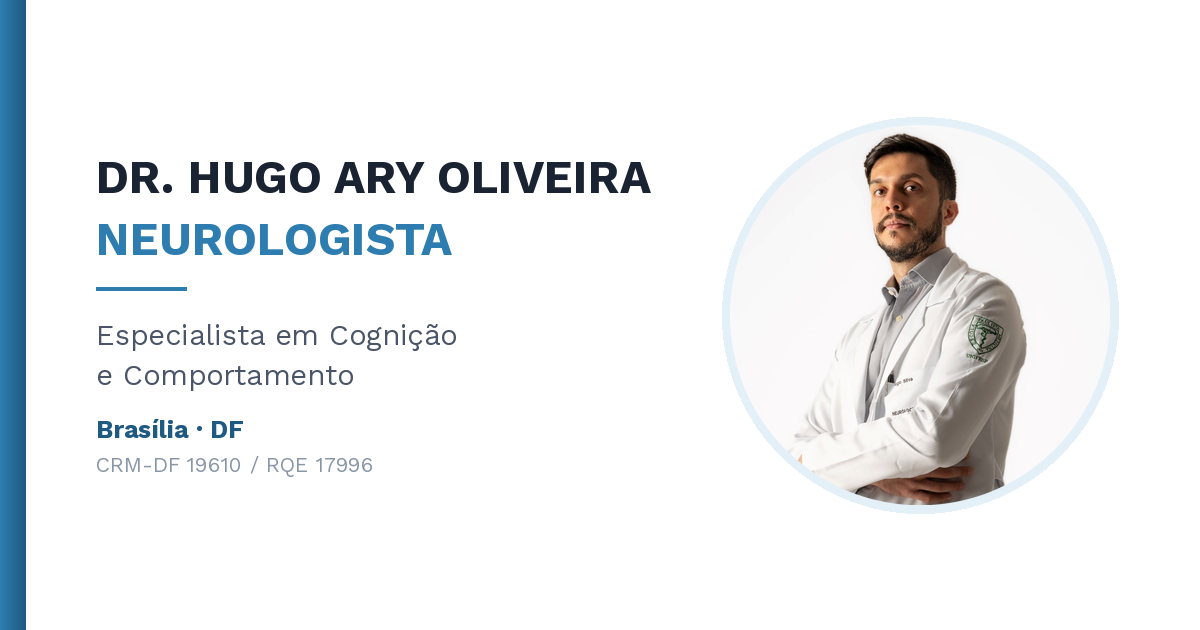
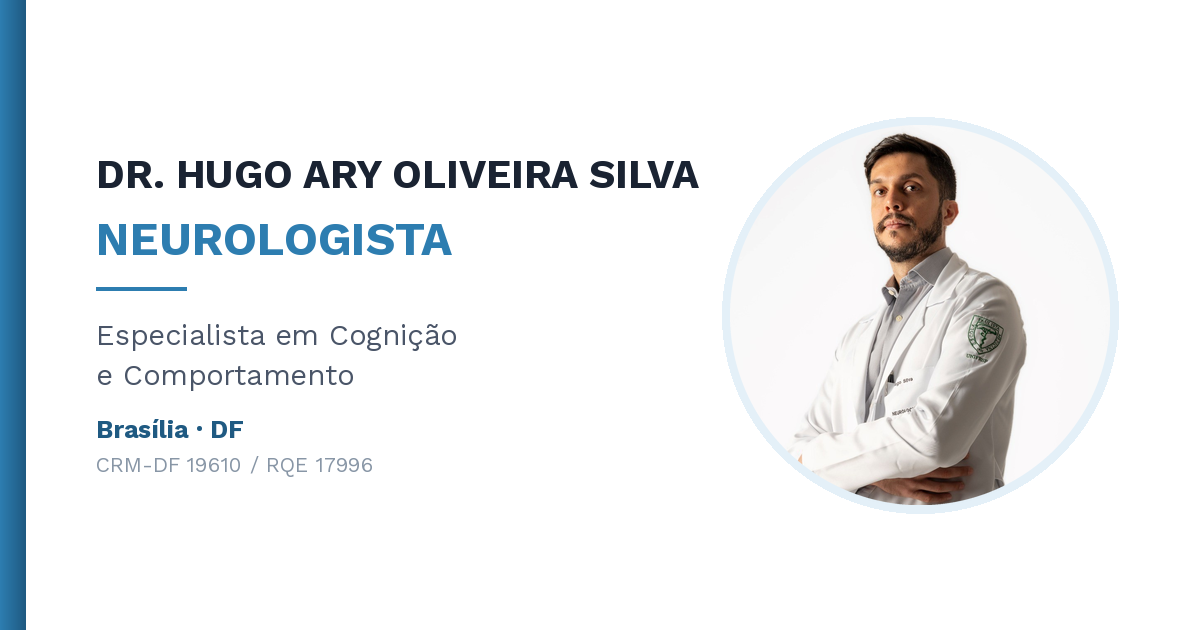
Padroniza o nome como "Dr. Hugo Ary Oliveira Silva" (#6)
O site usava cinco grafias diferentes do mesmo nome. Isso fragmenta a
identidade: buscadores e modelos de linguagem precisam ligar todas as
menções a uma única pessoa, e grafias divergentes entre site, diretórios
médicos e páginas de hospital enfraquecem todas as ocorrências.

Grafias encontradas e unificadas (34 ocorrências em 5 arquivos):
- "Dr. Hugo Ary Oliveira"      — maior parte do site
- "Dr.Hugo Ary Oliveira"       — rodapé, sem espaço
- "DR. HUGO ARY OLIVEIRA"      — h1 da home
- "Dr Hugo Ary Oliveira Silva" — cabeçalho da avaliação
- "Dr Hugo Ary O R Silva"      — campo examinador do TAP TEST

Reforço de entidade:
- O nó Physician ganha givenName, familyName, honorificPrefix e
  alternateName com as grafias antigas. Como o site já foi indexado com
  "Dr. Hugo Ary Oliveira" e outras fontes podem usar essa forma, o
  alternateName declara explicitamente que são a mesma pessoa, em vez de
  deixar a mudança criar duas entidades.
- og-image.png regerada com o nome completo.

Title do TAP TEST:
Com o nome completo o title ia a 71 caracteres, além do limite que o
Google exibe. Truncar o nome contrariaria a própria padronização, então o
nome sai desse title — a página é instrumento clínico, não capta paciente,
e a autoria continua no JSON-LD, no og:site_name e no conteúdo visível.
Fica "TAP TEST — Hidrocefalia de Pressão Normal" (41 car.).

Validado no Chromium/Playwright: nenhum erro de JavaScript, JSON-LD
[…]

Changed region(s): [[0.0617, 0.2413, 0.5858, 0.3317]]

diff --git a/index.html b/index.html
@@ -7,7 +7,7 @@
       name="description"
       content="Neurologista em Brasília especialista em Cognição e Comportamento. Atendimento em problemas de memória, TDAH, Alzheimer e autismo adulto. CRM-DF 19610."
     />
-    <meta name="author" content="Dr. Hugo Ary Oliveira" />
+    <meta name="author" content="Dr. Hugo Ary Oliveira Silva" />
     <meta name="robots" content="index, follow, max-image-preview:large, max-snippet:-1" />
     <meta name="theme-color" content="#2d7db0" />
     <link rel="canonical" href="https://drhugoary.com.br/" />
@@ -15,10 +15,10 @@
     <!-- Open Graph: define o cartão exibido ao compartilhar o link
          (WhatsApp, Instagram, LinkedIn). -->
     <meta property="og:type" content="website" />
-    <meta property="og:site_name" content="Dr. Hugo Ary Oliveira — Neurologista" />
+    <meta property="og:site_name" content="Dr. Hugo Ary Oliveira Silva — Neurologista" />
     <meta property="og:locale" content="pt_BR" />
     <meta property="og:url" content="https://drhugoary.com.br/" />
-    <meta property="og:title" content="Neurologista em Brasília | Dr. Hugo Ary Oliveira" />
+    <meta property="og:title" content="Neurologista em Brasília | Dr. Hugo Ary Oliveira Silva" />
     <meta
       property="og:description"
       content="Especialista em Cognição e Comportamento. Problemas de memória, TDAH, Alzheimer e autismo adulto. CRM-DF 19610 / RQE 17996."
@@ -26,9 +26,9 @@
     <meta property="og:image" content="https://drhugoary.com.br/assets/img/og-image.png" />
     <meta property="og:image:width" content="1200" />
     <meta property="og:image:height" content="630" />
-    <meta property="og:image:alt" content="Dr. Hugo Ary Oliveira, neurologista em Brasília" />
+    <meta property="og:image:alt" content="Dr. Hugo Ary Oliveira Silva, neurologista em Brasília" />
     <meta name="twitter:card" content="summary_large_image" />
-    <meta name="twitter:title" content="Neurologista em Brasília | Dr. Hugo Ary Oliveira" />
+    <meta name="twitter:title" content="Neurologista em Brasília | Dr. Hugo Ary Oliveira Silva" />
     <meta
       name="twitter:description"
       content="Especialista em Cognição e Comportamento. Problemas de memória, TDAH, Alzheimer e autismo adulto."
@@ -45,7 +45,7 @@
       crossorigin="anonymous"
       referrerpolicy="no-referrer"
     />
-    <title>Neurologista em Brasília | Dr. Hugo Ary Oliveira</title>
+    <title>Neurologista em Brasília | Dr. Hugo Ary Oliveira Silva</title>
   </head>
   <body>
     <header class="l-header">
@@ -54,7 +54,7 @@
           <a href="#home" class="nav__logo">
             <img
               src="./assets/img/logo.svg"
-              alt="Dr. Hugo Ary Oliveira - Neurologista em Brasília"
+              alt="Dr. Hugo Ary Oliveira Silva - Neurologista em Brasília"
               class="logo__img"
             />
           </a>
@@ -134,7 +134,7 @@
       <section class="home" id="home">
         <div class="home__data">
           <h1 class="home__title">
-            DR. HUGO ARY OLIVEIRA <br />
+            DR. HUGO ARY OLIVEIRA SILVA <br />
             NEUROLOGISTA
           </h1>
           <p class="home__subtitle">CRM-DF 19610 / RQE 17996</p>
@@ -160,7 +160,7 @@
       <section class="about" id="sobre">
         <img
           src="./assets/img/hugo.jpg"
-          alt="Dr. Hugo Ary Oliveira, neurologista em Brasília"
+          alt="Dr. Hugo Ary Oliveira Silva, neurologista em Brasília"
           class="about__img"
         />
         <div class="about__data">
@@ -347,7 +347,7 @@
       <div class="footer__data">
         <img
           src="./assets/img/logo.svg"
-          alt="Dr. Hugo Ary Oliveira - Neurologista em Brasília"
+          alt="Dr. Hugo Ary Oliveira Silva - Neurologista em Brasília"
           class="footer__logo"
         />
         <div class="footer__info">
@@ -363,7 +363,7 @@
         </div>
       </div>
       <div class="footer__rights">
-        <p>Dr.Hugo Ary Oliveira © 2026 - Todos os direitos reservados</p>
+        <p>Dr. Hugo Ary Oliveira Silva © 2026 - Todos os direitos reservados</p>
         <p>
           Desenvolvido por
           <a
@@ -385,14 +385,22 @@
             "@type": "WebSite",
             "@id": "https://drhugoary.com.br/#website",
             "url": "https://drhugoary.com.br/",
-            "name": "Dr. Hugo Ary Oliveira — Neurologista",
+            "name": "Dr. Hugo Ary Oliveira Silva — Neurologista",
             "inLanguage": "pt-BR",
             "publisher": { "@id": "https://drhugoary.com.br/#medico" }
           },
           {
             "@type": "Physician",
             "@id": "https://drhugoary.com.br/#medico",
-            "name": "Dr. Hugo Ary Oliveira",
+            "name": "Dr. Hugo Ary Oliveira Silva",
+            "givenName": "Hugo Ary",
+            "familyName": "Oliveira Silva",
+            "honorificPrefix": "Dr.",
+            "alternateName": [
+              "Dr. Hugo Ary Oliveira",
+              "Hugo Ary Oliveira Silva",
+              "Hugo Ary Oliveira"
+            ],
             "url": "https://drhugoary.com.br/",
             "image": "https://drhugoary.com.br/assets/img/hugo.jpg",
             "logo": "https://drhugoary.com.br/assets/img/logo.svg",

diff --git a/tap-test.html b/tap-test.html
@@ -3,19 +3,19 @@
   <head>
     <meta charset="UTF-8" />
     <meta name="viewport" content="width=device-width, initial-scale=1.0" />
-    <meta name="description" content="TAP TEST – Avaliação de resposta à punção lombar na suspeita de Hidrocefalia de Pressão Normal. Dr. Hugo Ary Oliveira, Neurologista. CRM-DF 19610." />
-    <meta name="author" content="Dr. Hugo Ary Oliveira" />
+    <meta name="description" content="TAP TEST – Avaliação de resposta à punção lombar na suspeita de Hidrocefalia de Pressão Normal. Dr. Hugo Ary Oliveira Silva, Neurologista. CRM-DF 19610." />
+    <meta name="author" content="Dr. Hugo Ary Oliveira Silva" />
     <link rel="canonical" href="https://drhugoary.com.br/tap-test.html" />
     <meta property="og:type" content="article" />
-    <meta property="og:site_name" content="Dr. Hugo Ary Oliveira — Neurologista" />
+    <meta property="og:site_name" content="Dr. Hugo Ary Oliveira Silva — Neurologista" />
     <meta property="og:locale" content="pt_BR" />
     <meta property="og:url" content="https://drhugoary.com.br/tap-test.html" />
-    <meta property="og:title" content="TAP TEST — Hidrocefalia de Pressão Normal | Dr. Hugo Ary Oliveira" />
-    <meta property="og:description" content="TAP TEST: avaliação da resposta à punção lombar na suspeita de Hidrocefalia de Pressão Normal. Dr. Hugo Ary Oliveira, neurologista em Brasília." />
+    <meta property="og:title" content="TAP TEST — Hidrocefalia de Pressão Normal" />
+    <meta property="og:description" content="TAP TEST: avaliação da resposta à punção lombar na suspeita de Hidrocefalia de Pressão Normal. Dr. Hugo Ary Oliveira Silva, neurologista em Brasília." />
     <meta property="og:image" content="https://drhugoary.com.br/assets/img/og-image.png" />
     <meta name="twitter:card" content="summary_large_image" />
     <link rel="icon" href="./assets/img/brain-vector.svg" />
-    <title>TAP TEST — Hidrocefalia de Pressão Normal | Dr. Hugo Ary Oliveira</title>
+    <title>TAP TEST — Hidrocefalia de Pressão Normal</title>
     <style>
       @import url('https://fonts.googleapis.com/css2?family=DM+Sans:ital,opsz,wght@0,9..40,300;0,9..40,400;0,9..40,500;0,9..40,600;0,9..40,700;1,9..40,400&family=JetBrains+Mono:wght@400;500&display=swap');
       :root{--bg:#f7f9fc;--surface:#fff;--surface2:#f0f4f8;--border:#e2e8f0;--text:#1a2332;--text2:#4a5568;--text3:#8896a6;--accent:#2d7db0;--accent-light:#e4f0f8;--accent-dark:#1f5a82;--green:#5ba88c;--green-light:#e6f5ef;--green-dark:#3d7a62;--red:#c75a5a;--red-light:#fde8e8;--orange:#d4915e;--orange-light:#fef3e8;--shadow-sm:0 1px 3px rgba(26,35,50,.06);--shadow-md:0 4px 12px rgba(26,35,50,.08);--radius:10px;--radius-sm:6px;--font:'DM Sans',-apple-system,sans-serif;--mono:'JetBrains Mono',monospace;}
@@ -138,7 +138,7 @@
       <div style="max-width:46rem;margin:0 auto;padding:2.5rem 1.25rem;font-family:system-ui,-apple-system,'Segoe UI',Roboto,sans-serif;line-height:1.65;color:#1a2332;">
         <p style="font-size:.82rem;letter-spacing:.06em;text-transform:uppercase;color:#2d7db0;font-weight:700;margin:0 0 .5rem;">Instrumento clínico</p>
         <h1 style="font-size:1.9rem;line-height:1.25;margin:0 0 1rem;">TAP TEST — Hidrocefalia de Pressão Normal</h1>
-        <p>Registro estruturado da resposta à <strong>punção lombar de alívio</strong> na investigação de <strong>Hidrocefalia de Pressão Normal (HPN)</strong>, usado em consulta pelo <strong>Dr. Hugo Ary Oliveira</strong>, neurologista em Brasília.</p>
+        <p>Registro estruturado da resposta à <strong>punção lombar de alívio</strong> na investigação de <strong>Hidrocefalia de Pressão Normal (HPN)</strong>, usado em consulta pelo <strong>Dr. Hugo Ary Oliveira Silva</strong>, neurologista em Brasília.</p>
         <p>O TAP TEST compara o desempenho do paciente antes e depois da retirada de líquor, ajudando a estimar quem tende a se beneficiar da derivação ventriculoperitoneal. A avaliação registra:</p>
         <ul style="padding-left:1.2rem;">
           <li><strong>Marcha</strong> — tempo e número de passos, velocidade e equilíbrio.</li>
@@ -150,7 +150,7 @@
           A versão interativa carrega automaticamente neste navegador. Se nada aparecer, ative o JavaScript.
         </p>
         <p style="margin:1.5rem 0 0;font-size:.9rem;color:#8896a6;">
-          <a href="./index.html" style="color:#2d7db0;">Dr. Hugo Ary Oliveira</a> — Neurologista em Brasília · CRM-DF 19610 / RQE 17996
+          <a href="./index.html" style="color:#2d7db0;">Dr. Hugo Ary Oliveira Silva</a> — Neurologista em Brasília · CRM-DF 19610 / RQE 17996
         </p>
       </div>
     </div>

diff --git a/avaliacao-neurocognitiva.html b/avaliacao-neurocognitiva.html
@@ -3,19 +3,19 @@
   <head>
     <meta charset="UTF-8" />
     <meta name="viewport" content="width=device-width, initial-scale=1.0" />
-    <meta name="description" content="Avaliação Neurocognitiva – Dr. Hugo Ary Oliveira, Neurologista especialista em Cognição e Comportamento. CRM-DF 19610." />
-    <meta name="author" content="Dr. Hugo Ary Oliveira" />
+    <meta name="description" content="Avaliação Neurocognitiva – Dr. Hugo Ary Oliveira Silva, Neurologista especialista em Cognição e Comportamento. CRM-DF 19610." />
+    <meta name="author" content="Dr. Hugo Ary Oliveira Silva" />
     <link rel="canonical" href="https://drhugoary.com.br/avaliacao-neurocognitiva.html" />
     <meta property="og:type" content="article" />
-    <meta property="og:site_name" content="Dr. Hugo Ary Oliveira — Neurologista" />
+    <meta property="og:site_name" content="Dr. Hugo Ary Oliveira Silva — Neurologista" />
     <meta property="og:locale" content="pt_BR" />
     <meta property="og:url" content="https://drhugoary.com.br/avaliacao-neurocognitiva.html" />
-    <meta property="og:title" content="Avaliação Neurocognitiva | Dr. Hugo Ary Oliveira" />
-    <meta property="og:description" content="Instrumento de avaliação neurocognitiva usado em consulta pelo Dr. Hugo Ary Oliveira, neurologista em Brasília especialista em Cognição e Comportamento." />
+    <meta property="og:title" content="Avaliação Neurocognitiva | Dr. Hugo Ary Oliveira Silva" />
+    <meta property="og:description" content="Instrumento de avaliação neurocognitiva usado em consulta pelo Dr. Hugo Ary Oliveira Silva, neurologista em Brasília especialista em Cognição e Comportamento." />
     <meta property="og:image" content="https://drhugoary.com.br/assets/img/og-image.png" />
     <meta name="twitter:card" content="summary_large_image" />
     <link rel="icon" href="./assets/img/brain-vector.svg" />
-    <title>Avaliação Neurocognitiva | Dr. Hugo Ary Oliveira</title>
+    <title>Avaliação Neurocognitiva | Dr. Hugo Ary Oliveira Silva</title>
     <script type="application/ld+json">
     {
       "@context": "https://schema.org",
@@ -23,7 +23,7 @@
       "@id": "https://drhugoary.com.br/avaliacao-neurocognitiva.html#page",
       "url": "https://drhugoary.com.br/avaliacao-neurocognitiva.html",
       "name": "Avaliação Neurocognitiva",
-      "description": "Bateria de avaliação neurocognitiva aplicada em consulta pelo Dr. Hugo Ary Oliveira, neurologista em Brasília especialista em Cognição e Comportamento.",
+      "description": "Bateria de avaliação neurocognitiva aplicada em consulta pelo Dr. Hugo Ary Oliveira Silva, neurologista em Brasília especialista em Cognição e Comportamento.",
       "inLanguage": "pt-BR",
       "author": { "@type": "Physician", "@id": "https://drhugoary.com.br/#medico" },
       "about": { "@type": "MedicalCondition", "name": "Transtorno neurocognitivo" }
@@ -37,7 +37,7 @@
       <div style="max-width:46rem;margin:0 auto;padding:2.5rem 1.25rem;font-family:system-ui,-apple-system,'Segoe UI',Roboto,sans-serif;line-height:1.65;color:#1a2332;">
         <p style="font-size:.82rem;letter-spacing:.06em;text-transform:uppercase;color:#2d7db0;font-weight:700;margin:0 0 .5rem;">Instrumento clínico</p>
         <h1 style="font-size:1.9rem;line-height:1.25;margin:0 0 1rem;">Avaliação Neurocognitiva</h1>
-        <p>Bateria de avaliação neurocognitiva aplicada em consulta pelo <strong>Dr. Hugo Ary Oliveira</strong>, neurologista em Brasília especialista em Cognição e Comportamento.</p>
+        <p>Bateria de avaliação neurocognitiva aplicada em consulta pelo <strong>Dr. Hugo Ary Oliveira Silva</strong>, neurologista em Brasília especialista em Cognição e Comportamento.</p>
         <p>A avaliação percorre os principais domínios cognitivos:</p>
         <ul style="padding-left:1.2rem;">
           <li><strong>Memória</strong> — evocação de lista de palavras, imediata e tardia.</li>
@@ -52,7 +52,7 @@
           A versão interativa carrega automaticamente neste navegador. Se nada aparecer, ative o JavaScript.
         </p>
         <p style="margin:1.5rem 0 0;font-size:.9rem;color:#8896a6;">
-          <a href="./index.html" style="color:#2d7db0;">Dr. Hugo Ary Oliveira</a> — Neurologista em Brasília · CRM-DF 19610 / RQE 17996
+          <a href="./index.html" style="color:#2d7db0;">Dr. Hugo Ary Oliveira Silva</a> — Neurologista em Brasília · CRM-DF 19610 / RQE 17996
         </p>
       </div>
     </div>

diff --git a/assets/js/avaliacao.js b/assets/js/avaliacao.js
@@ -1911,7 +1911,7 @@ function PrintView({
     className: "pv-h2"
   }, isMoCA ? "Montreal Cognitive Assessment (MoCA) — UNIFESP" : "Avaliação Neurocognitiva — V-01"), /*#__PURE__*/React.createElement("p", {
     className: "pv-h3"
-  }, "Dr Hugo Ary Oliveira Silva \u2014 Neurologista Cogni\xE7\xE3o e Comportamento \xB7 CRM-DF 19610 \xB7 RQE 17996"))), /*#__PURE__*/React.createElement("div", {
+  }, "Dr. Hugo Ary Oliveira Silva \u2014 Neurologista Cogni\xE7\xE3o e Comportamento \xB7 CRM-DF 19610 \xB7 RQE 17996"))), /*#__PURE__*/React.createElement("div", {
     className: "pv-hdr-right"
   }, /*#__PURE__*/React.createElement("div", {
     className: "pv-hf"
@@ -2594,7 +2594,7 @@ function NeuroCogAssessment() {
     className: "header-text"
   }, /*#__PURE__*/React.createElement("h1", null, "Avalia\xE7\xE3o Neurocognitiva"), /*#__PURE__*/React.createElement("p", {
     className: "header-doc"
-  }, "Dr Hugo Ary Oliveira Silva \u2014 Neurologista Cogni\xE7\xE3o e Comportamento"), /*#__PURE__*/React.createElement("p", null, "CRM-DF 19610 \xB7 RQE 17996"))), /*#__PURE__*/React.createElement("div", {
+  }, "Dr. Hugo Ary Oliveira Silva \u2014 Neurologista Cogni\xE7\xE3o e Comportamento"), /*#__PURE__*/React.createElement("p", null, "CRM-DF 19610 \xB7 RQE 17996"))), /*#__PURE__*/React.createElement("div", {
     className: "header-actions"
   }, /*#__PURE__*/React.createElement("div", {
     className: "test-toggle"

diff --git a/assets/js/tap-test.js b/assets/js/tap-test.js
@@ -270,7 +270,7 @@ const INITIAL_DATA = {
   pl_notes: "",
   conclusion: "",
   conclusion_manual: false,
-  examiner: "Dr Hugo Ary O R Silva — Neurologista, Especialidade Cognição e Comportamento — CRM-DF 19610 — RQE 17.996"
+  examiner: "Dr. Hugo Ary Oliveira Silva — Neurologista, Especialidade Cognição e Comportamento — CRM-DF 19610 — RQE 17.996"
 };
 
 /* ═══ HELPERS ═══ */
@@ -598,7 +598,7 @@ function TapTestApp() {
     className: "hdr-text"
   }, /*#__PURE__*/React.createElement("h1", null, "TAP TEST"), /*#__PURE__*/React.createElement("p", null, "AVALIA\xC7\xC3O DE RESPOSTA \xC0 PUN\xC7\xC3O LOMBAR"), /*#__PURE__*/React.createElement("p", {
     className: "hdr-doc"
-  }, "Dr. Hugo Ary Oliveira \xB7 CRM-DF 19610 \xB7 RQE 17996"))), /*#__PURE__*/React.createElement("div", {
+  }, "Dr. Hugo Ary Oliveira Silva \xB7 CRM-DF 19610 \xB7 RQE 17996"))), /*#__PURE__*/React.createElement("div", {
     className: "hdr-actions"
   }, /*#__PURE__*/React.createElement("a", {
     href: "./index.html",
